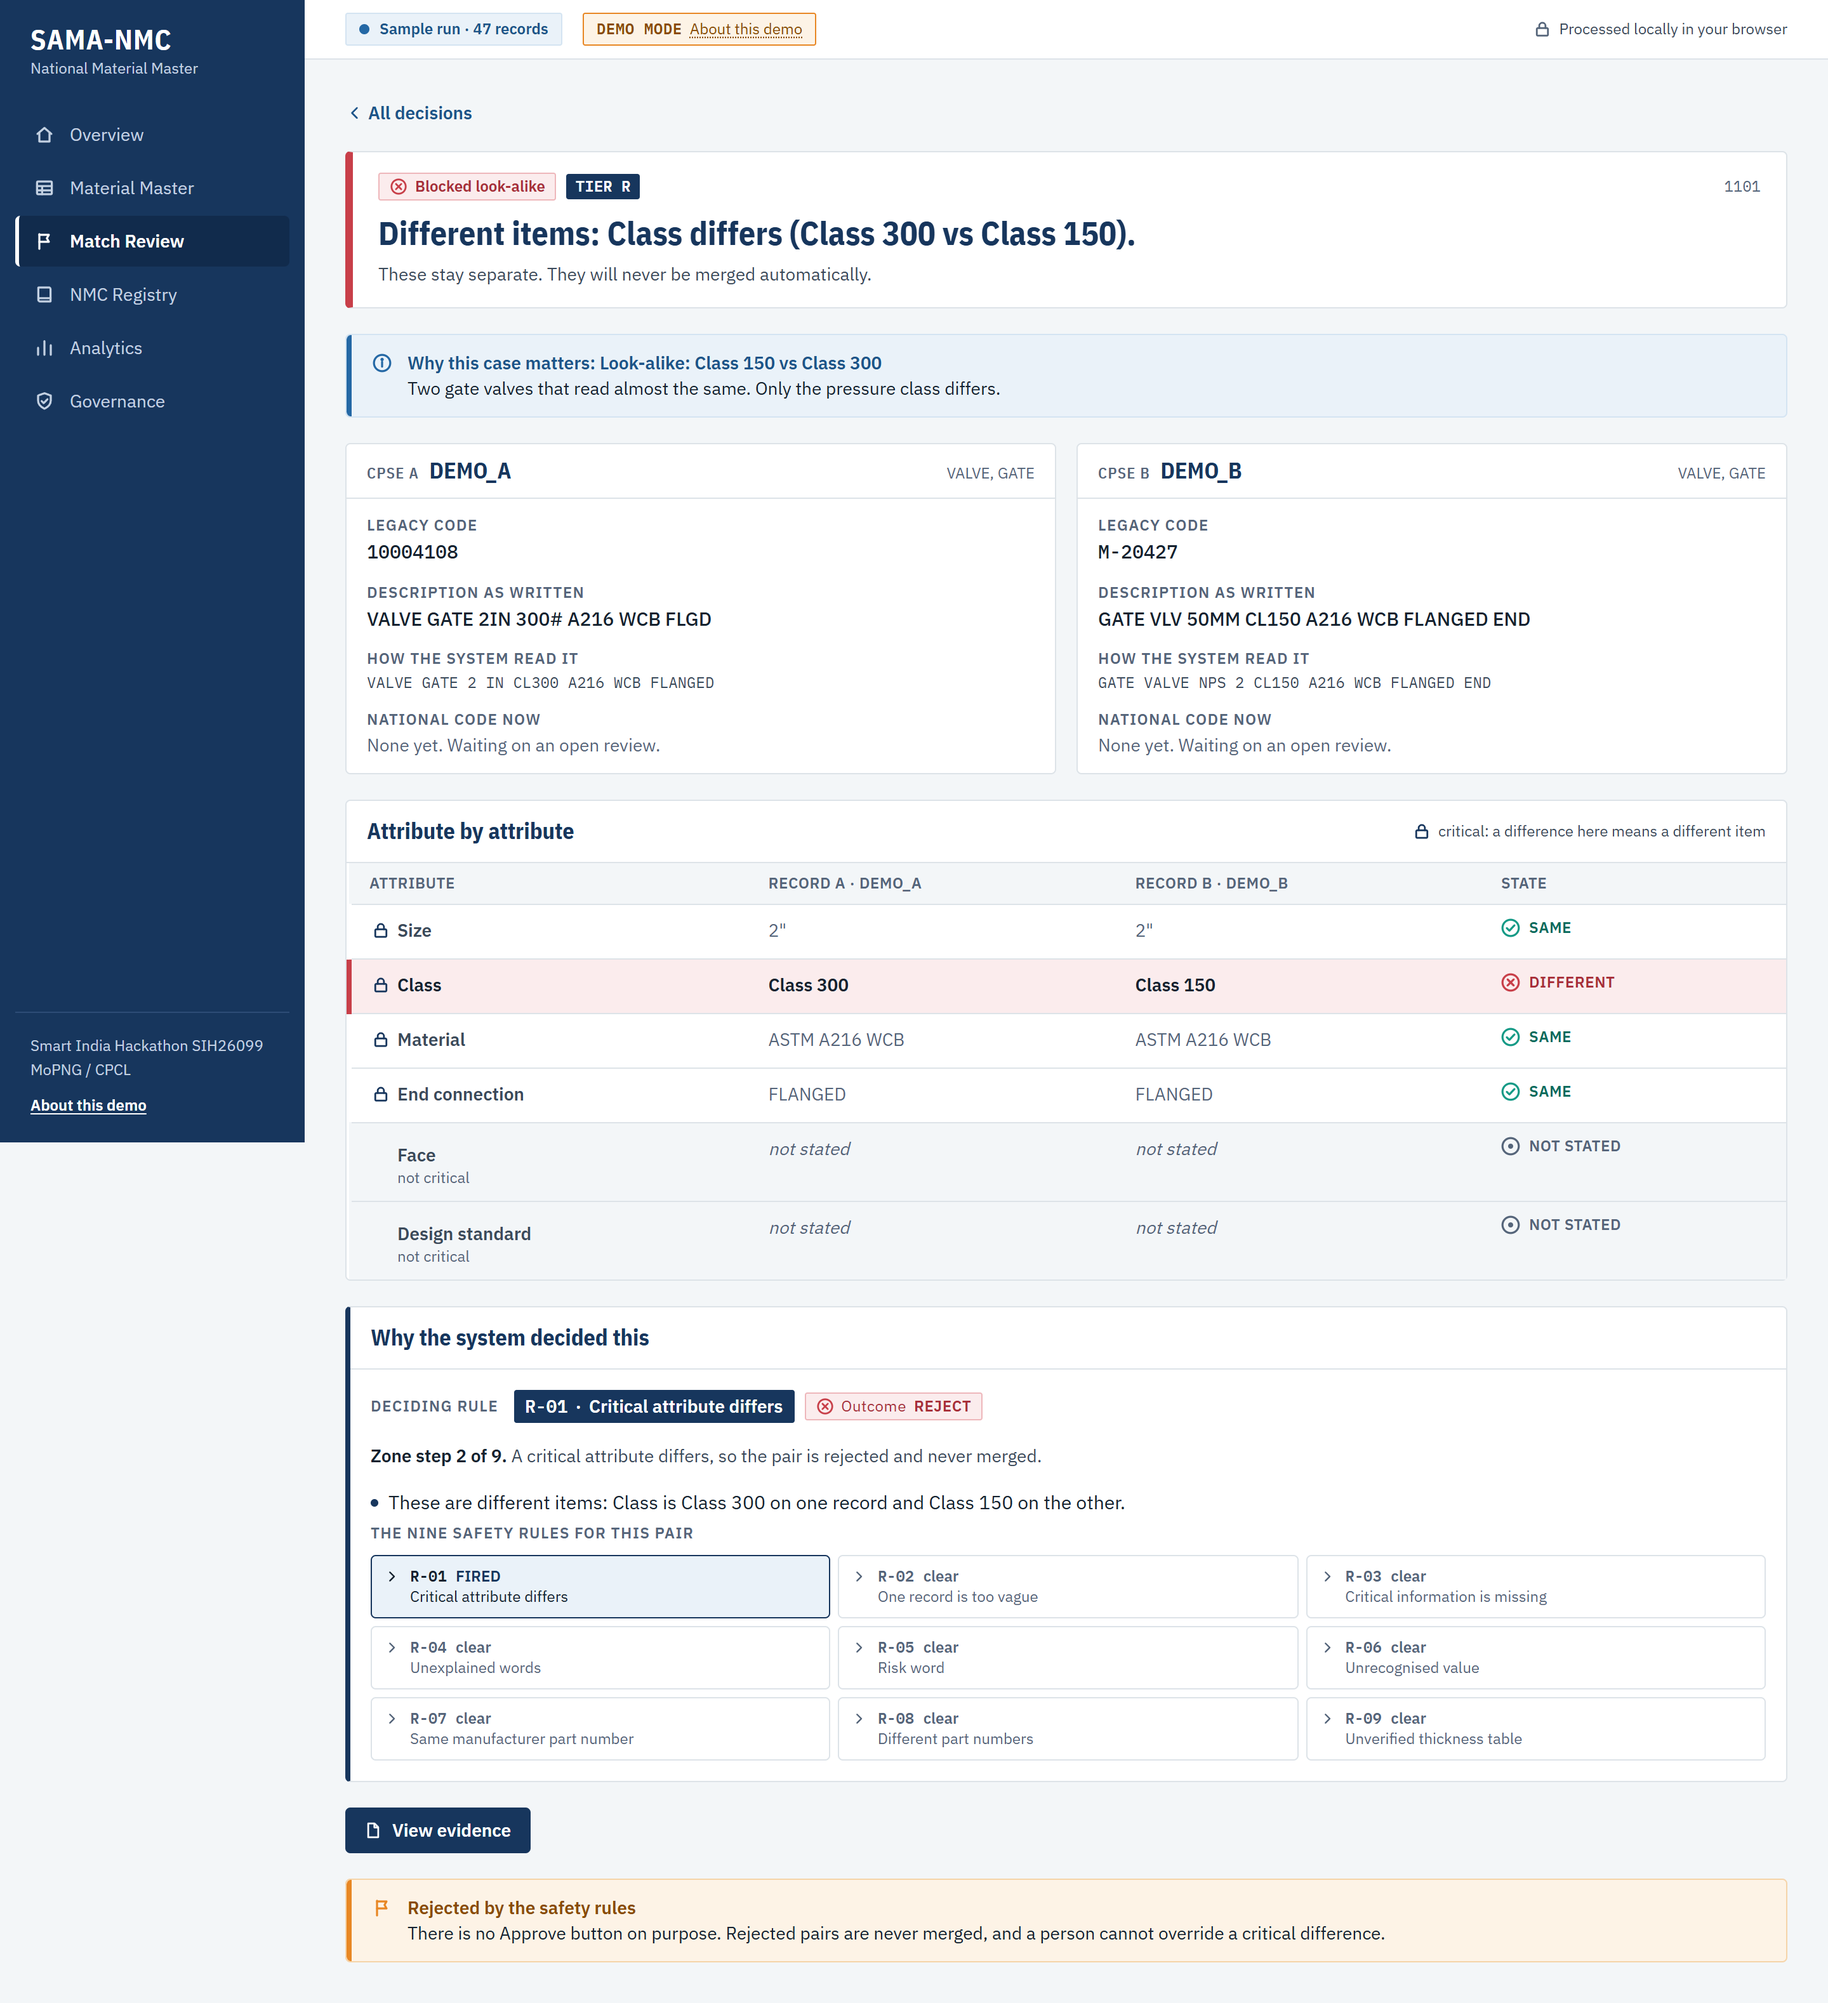
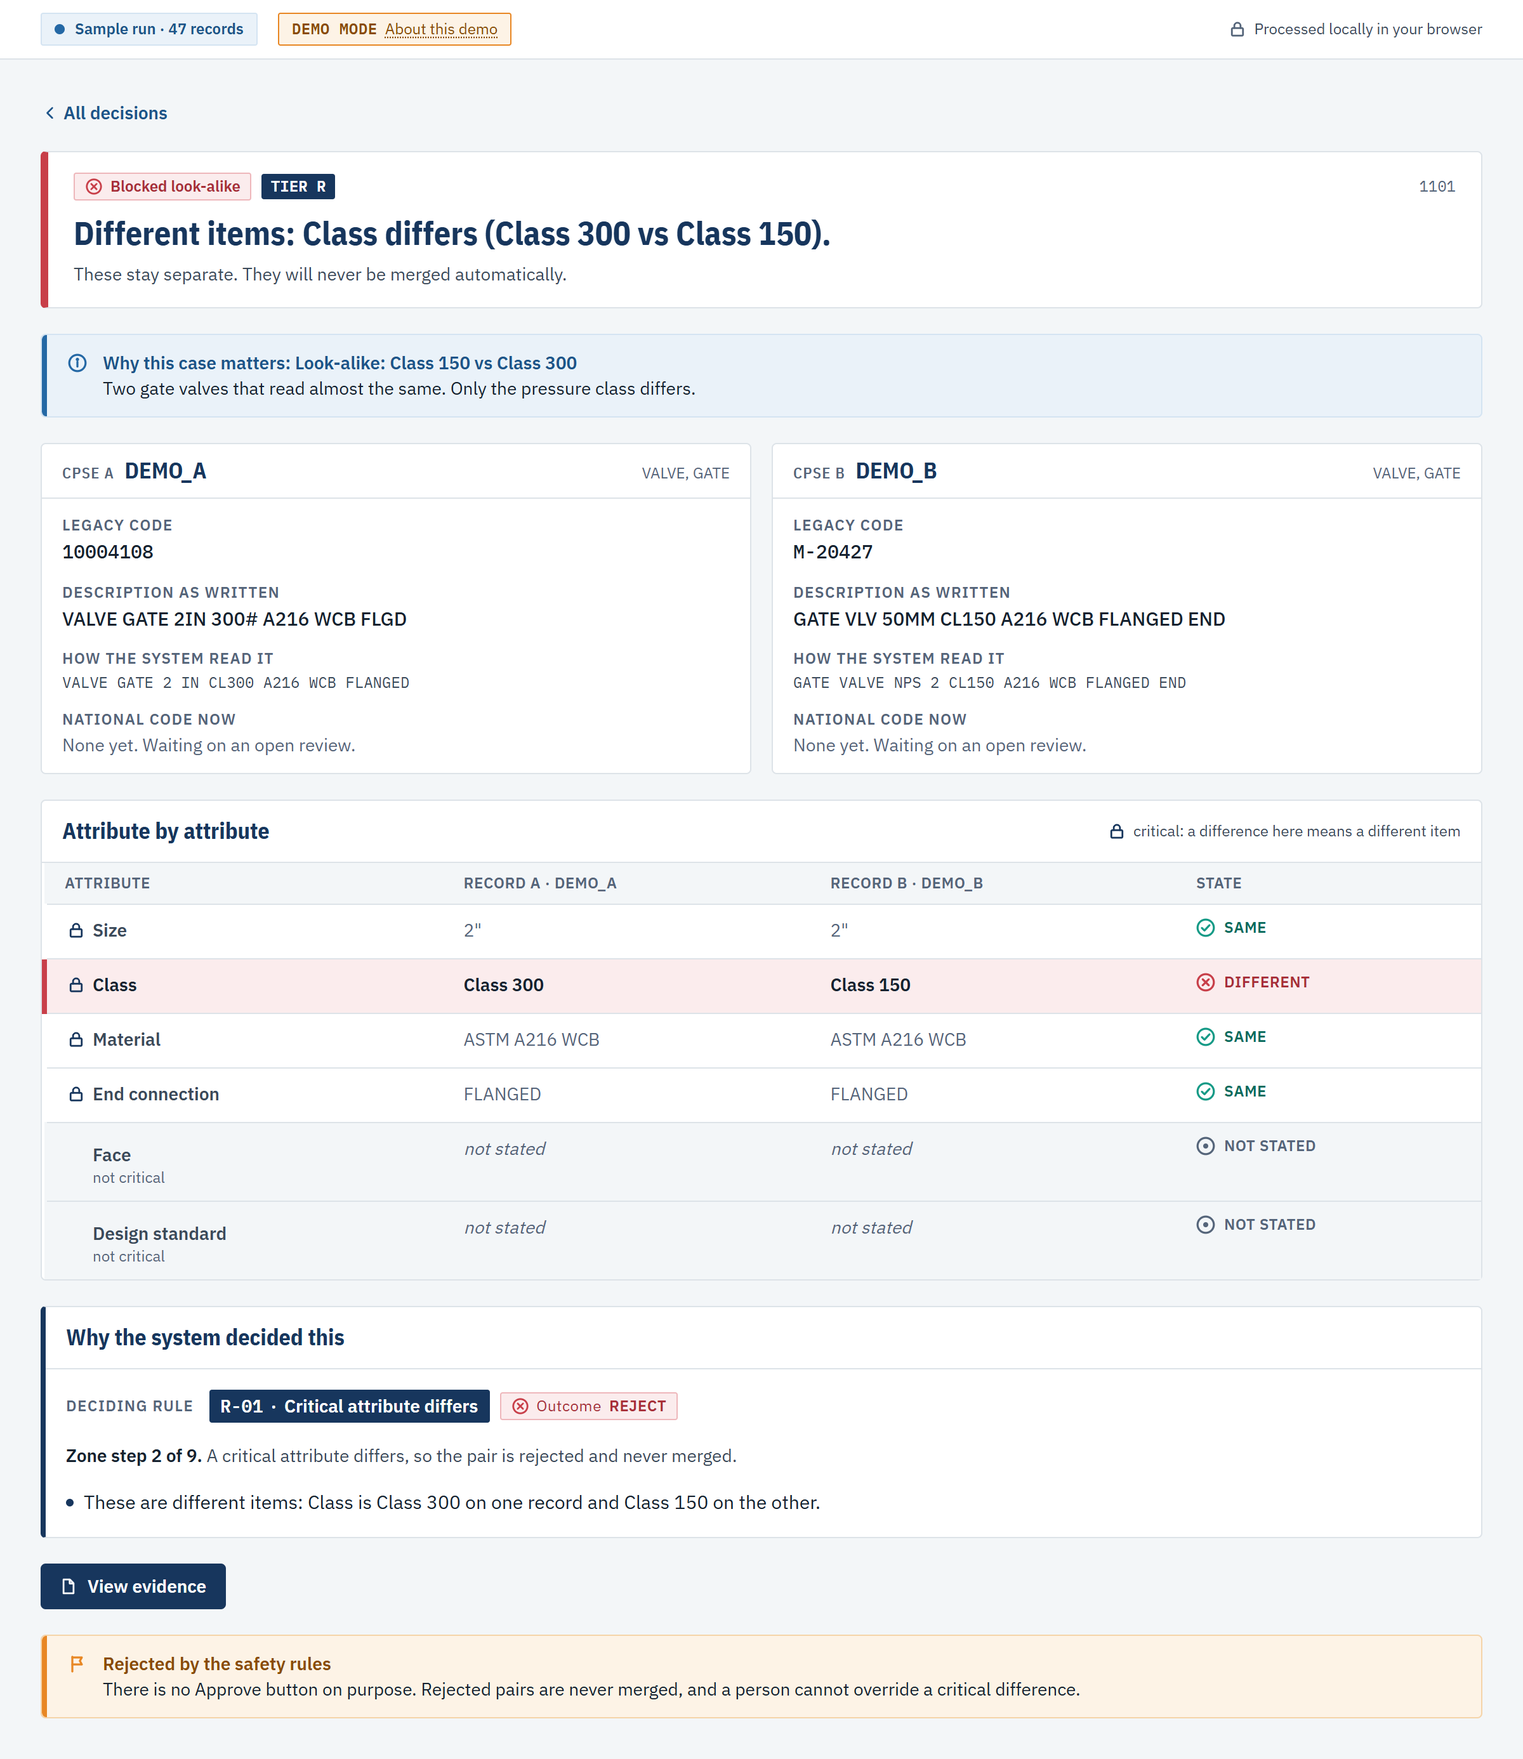
Improve README screenshots: remove sidebar, split NMC registry into two focused shots

diff --git a/README.md b/README.md
@@ -43,11 +43,17 @@ one, on purpose: a person is never allowed to override a real conflict.
 
 ### 4. One national code, with the paper trail kept
 
-![NMC Registry card: one national material code linked to three companies' old codes, plus a price-spread comparison](assets/screenshots/04_national_code_registry.png)
+![NMC Registry card: one national material code linked to three companies' old codes, with a check digit and a crosswalk table](assets/screenshots/04_national_code_crosswalk.png)
 
 Once a match is confirmed, the three companies' separate old codes are linked to **one new national code**
-(`NMC:1201-0000001-3`) — and the old codes are never deleted, so nothing breaks on the company side. As a bonus,
-because we now know it's the same item, we can line up what each company paid for it and show the price gap.
+(`NMC:1201-0000001-3`) — and the old codes are never deleted, so nothing breaks on the company side.
+
+### 5. A bonus you only get once records are linked: the price gap
+
+![Savings lens: the same item bought by three companies at three different prices, with the spread and a combined opportunity figure](assets/screenshots/05_savings_lens.png)
+
+Because we now know it's the same item, we can line up what each company paid for it. Here the same flange cost
+1,160 at one company and 1,235 at another — a gap nobody could see while each company only had its own code.
 
 ## The live demo
 
